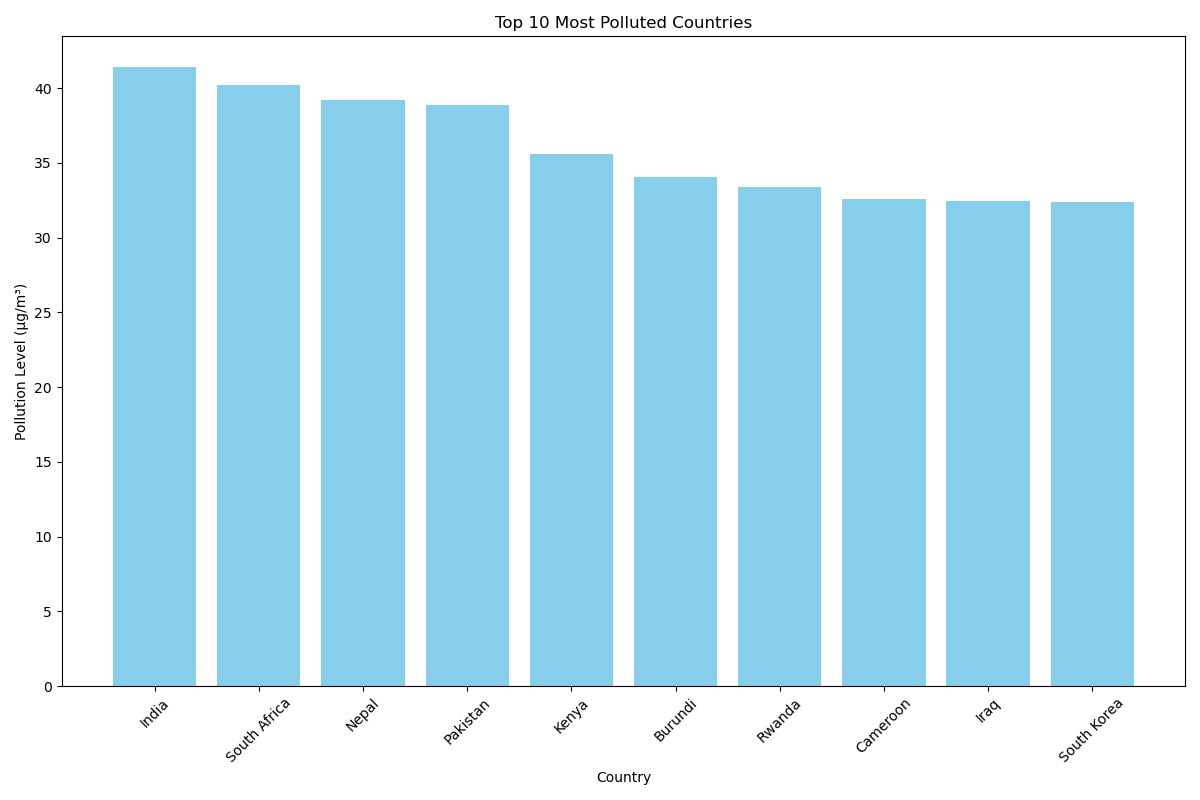
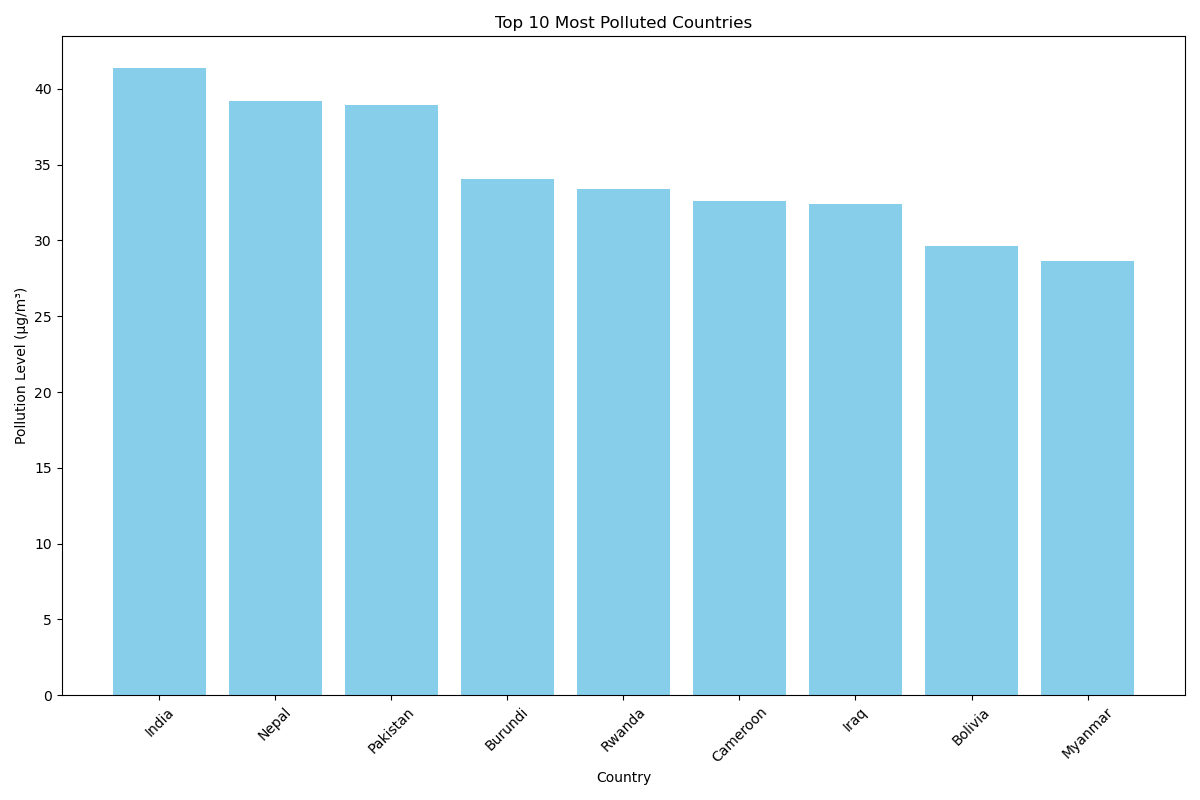
draft

diff --git a/barchart.py b/barchart.py
@@ -1,105 +1,78 @@
 import requests
-import sqlite3
 import pandas as pd
 import matplotlib.pyplot as plt
 
 API_URL = "https://countryinfoapi.com/api/countries"
 
-def setup_database():
+# Fetches country data from the API and stores it in memory
+def fetch_country_data():
     """
-    Sets up the SQLite database and creates the required tables.
+    Fetches data from the API and returns it as a DataFrame.
     """
-    conn = sqlite3.connect("project_data.db")
-    cursor = conn.cursor()
-
-    #Creates tables
-    cursor.execute("CREATE TABLE IF NOT EXISTS Country (id INTEGER PRIMARY KEY, name TEXT)")
-    cursor.execute("CREATE TABLE IF NOT EXISTS Population (id INTEGER PRIMARY KEY, population INTEGER, FOREIGN KEY(id) REFERENCES Country(id))")
-    cursor.execute("CREATE TABLE IF NOT EXISTS Pollution (id INTEGER PRIMARY KEY, pollution_level REAL, FOREIGN KEY(id) REFERENCES Country(id))")
-
-    conn.commit()
-    conn.close()
-
-#Stores the data from Country Info API
-def fetch_and_store_country_data():
-    conn = sqlite3.connect("project_data.db")
-    cursor = conn.cursor()
-
     try:
         response = requests.get(API_URL)
         response.raise_for_status()
         data = response.json()
 
-        for entry in data:
-            country_id = int(entry["ccn3"]) if "ccn3" in entry and entry["ccn3"].isdigit() else None
-            country_name = entry.get("name", None)
-            population = entry.get("population", None)
+        # Extract relevant data
+        country_data = [
+            {
+                "id": int(entry["ccn3"]) if "ccn3" in entry and entry["ccn3"].isdigit() else None,
+                "name": entry.get("name", None),
+                "population": entry.get("population", None)
+            }
+            for entry in data
+        ]
 
-            #insert data
-            if country_id and country_name and population:
-                cursor.execute("INSERT OR IGNORE INTO Country (id, name) VALUES (?, ?)", (country_id, country_name))
-                cursor.execute("INSERT OR IGNORE INTO Population (id, population) VALUES (?, ?)", (country_id, population))
-            else:
-                print(f"Skipping invalid entry: {entry}")
+        # Filter out invalid entries
+        country_data = [
+            entry for entry in country_data
+            if entry["id"] is not None and entry["name"] and entry["population"] is not None
+        ]
 
+        return pd.DataFrame(country_data)
     except requests.exceptions.RequestException as e:
         print(f"Failed to fetch country data from API: {e}")
-    
-    conn.commit()
-    conn.close()
+        return pd.DataFrame()
 
-#Populate Pollution Data (Static Data for Testing)
-def populate_pollution_data():
-    conn = sqlite3.connect("project_data.db")
-    cursor = conn.cursor()
+# Adds static pollution data to the DataFrame
+def add_pollution_data(country_df):
+    """
+    Adds pollution data to the DataFrame based on country ID.
+    """
+    pollution_data = {
+        586: 54.17,  # Pakistan
+        356: 41.39,  # India
+        524: 39.18,  # Nepal
+        586: 38.90,  # Pakistan (update)
+        108: 34.04,  # Burundi
+        646: 33.37,  # Rwanda
+        120: 32.58,  # Cameroon
+        368: 32.42,  # Iraq
+        68: 29.63,   # Bolivia
+        104: 28.64   # Myanmar
+    }
 
-    #Example pollution data Country ID, Pollution Level
-    pollution_data = [
-        (586, 54.17),  # Bangladesh
-        (356, 41.39),   # India
-        (524, 39.18),   # United States
-        (586, 38.90),   # Indonesia
-        (108, 34.04),   # Pakistan
-        (646, 33.37),   # South Africa
-        (120, 32.58),   # Myanmar
-        (368, 32.42),   # Kenya
-        (68, 29.63),   # South Korea
-        (104, 28.64),   # Colombia
-    ]
+    # Map pollution data to country DataFrame
+    pollution_df = pd.DataFrame(list(pollution_data.items()), columns=["id", "pollution_level"])
+    return pd.merge(country_df, pollution_df, on="id", how="inner")
 
-    for country_id, pollution_level in pollution_data:
-        cursor.execute("INSERT OR REPLACE INTO Pollution (id, pollution_level) VALUES (?, ?)", 
-                       (country_id, pollution_level))
-
-    conn.commit()
-    conn.close()
-
-#Create Bar Chart for Top 10 Most Polluted Countries
-def create_pollution_bar_chart():
+# Create Bar Chart for Top 10 Most Polluted Countries
+def create_pollution_bar_chart(pollution_df):
     """
     Creates a bar chart of the top 10 most polluted countries using Matplotlib.
     """
-    conn = sqlite3.connect("project_data.db")
-    
-    # Query to fetch data
-    query = """
-        SELECT Country.name, Pollution.pollution_level
-        FROM Pollution
-        JOIN Country ON Pollution.id = Country.id
-        ORDER BY Pollution.pollution_level DESC
-        LIMIT 10
-    """
-    df = pd.read_sql_query(query, conn)
-    conn.close()
+    # Sort by pollution level and select top 10
+    top_polluted = pollution_df.sort_values(by="pollution_level", ascending=False).head(10)
 
     # Check if data exists
-    if df.empty:
+    if top_polluted.empty:
         print("No data available for visualization.")
         return
 
     # Create the bar chart
     plt.figure(figsize=(12, 8))
-    plt.bar(df["name"], df["pollution_level"], color="skyblue")
+    plt.bar(top_polluted["name"], top_polluted["pollution_level"], color="skyblue")
     plt.xlabel("Country")
     plt.ylabel("Pollution Level (µg/m³)")
     plt.title("Top 10 Most Polluted Countries")
@@ -110,14 +83,14 @@ def create_pollution_bar_chart():
 
 # Main Execution
 if __name__ == "__main__":
-    print("Setting up database...")
-    setup_database()
-    
-    print("Fetching and storing country data...")
-    fetch_and_store_country_data()
-    
-    print("Populating pollution data...")
-    populate_pollution_data()
-    
-    print("Creating bar chart...")
-    create_pollution_bar_chart()
+    print("Fetching country data...")
+    country_df = fetch_country_data()
+
+    if not country_df.empty:
+        print("Adding pollution data...")
+        pollution_df = add_pollution_data(country_df)
+
+        print("Creating bar chart...")
+        create_pollution_bar_chart(pollution_df)
+    else:
+        print("No country data available.")
